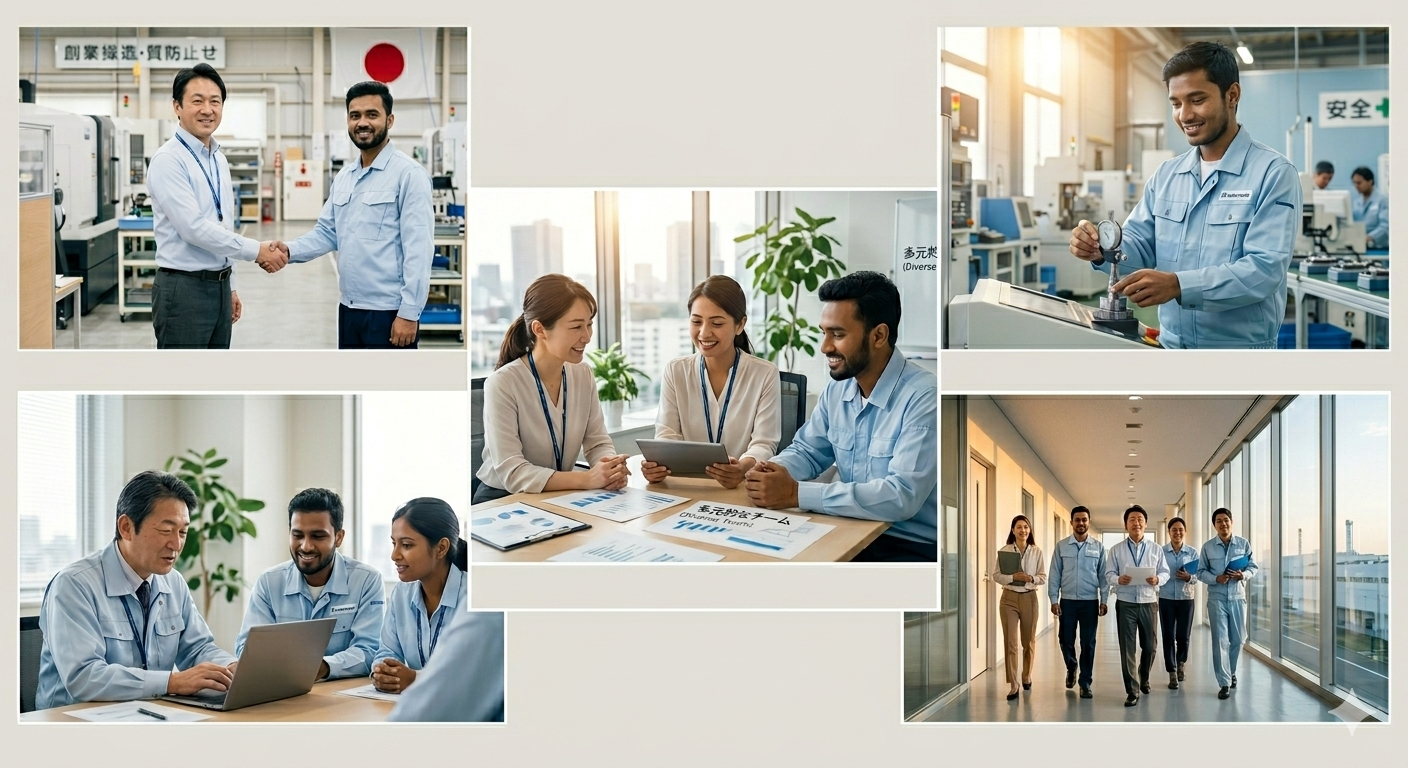
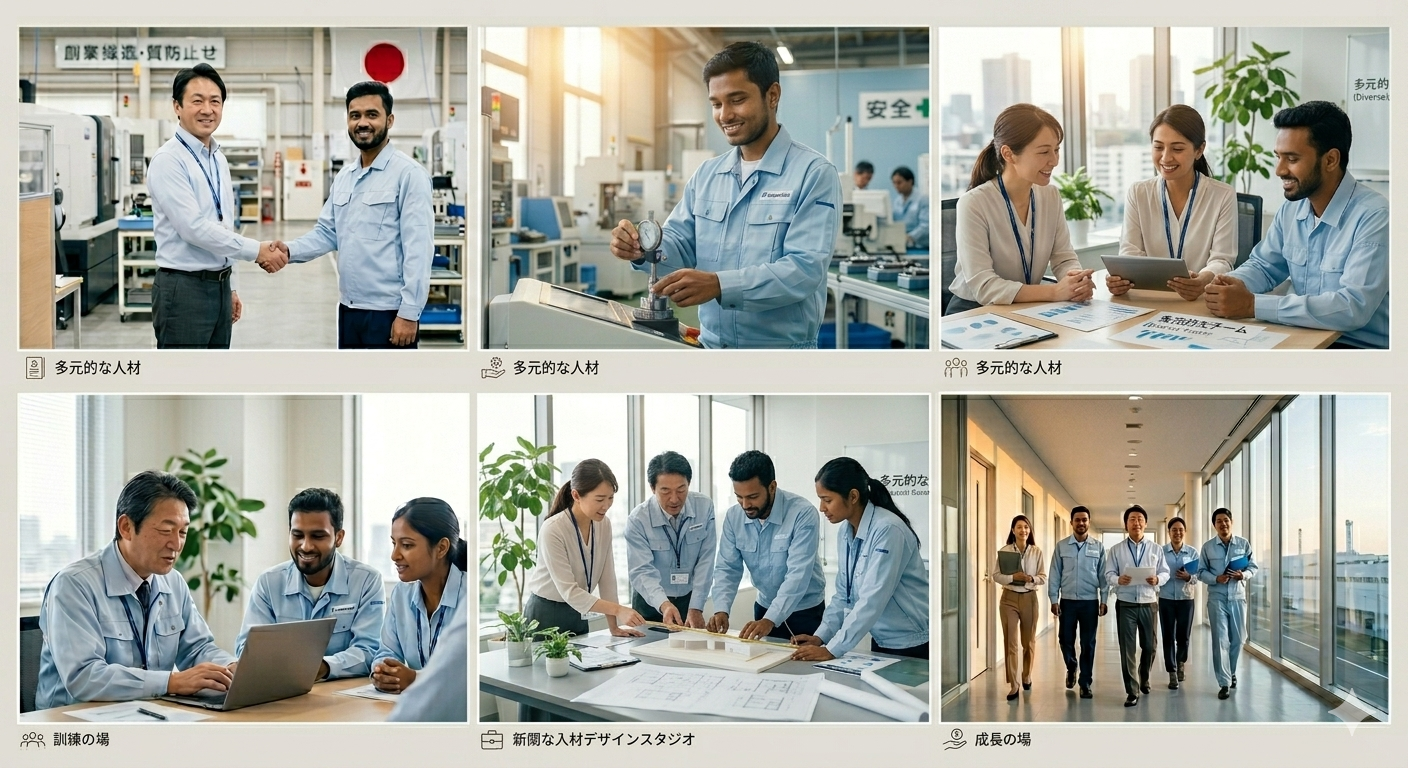
add image in case study

diff --git a/components/sections/case-studies-section.tsx b/components/sections/case-studies-section.tsx
@@ -1,6 +1,7 @@
 "use client";
 
 import type React from "react";
+import Image from "next/image";
 import Link from "next/link";
 import { motion } from "framer-motion";
 import { ArrowRight, TrendingUp } from "lucide-react";
@@ -65,9 +66,31 @@ export function CaseStudiesSection() {
     <section
       ref={ref as React.RefObject<HTMLElement>}
       aria-labelledby="cases-heading"
-      className="bg-navy-950 section-padding"
+      className="relative overflow-hidden section-padding"
     >
-      <div className="content-max px-4 sm:px-6 lg:px-8">
+      {/* ── Background image + layered overlays ── */}
+      <div className="absolute inset-0 z-0" aria-hidden="true">
+        <Image
+          src="/images/case-study.png"
+          alt=""
+          fill
+          className="object-cover object-center"
+          sizes="100vw"
+          quality={85}
+        />
+        {/* Base dark wash */}
+        <div className="absolute inset-0 bg-navy-950/50" />
+        {/* Cinematic gradient: dark top → clear mid → dark bottom */}
+        <div className="absolute inset-0 bg-linear-to-b from-navy-950/70 via-navy-950/20 to-navy-950/65" />
+        {/* Horizontal vignette for depth */}
+        <div className="absolute inset-0 bg-linear-to-r from-navy-950/40 via-transparent to-navy-950/40" />
+        {/* Subtle amber tint line near the top */}
+        <div className="absolute top-0 left-0 right-0 h-px bg-linear-to-r from-transparent via-amber-500/40 to-transparent" />
+      </div>
+
+      {/* ── Content ── */}
+      <div className="relative z-10 content-max px-4 sm:px-6 lg:px-8">
+        {/* Section header */}
         <motion.div
           variants={container}
           initial="hidden"
@@ -92,6 +115,7 @@ export function CaseStudiesSection() {
           </motion.p>
         </motion.div>
 
+        {/* Cards */}
         <motion.div
           variants={container}
           initial="hidden"
@@ -102,61 +126,67 @@ export function CaseStudiesSection() {
             <motion.div
               key={cs.slug}
               variants={item}
-              className={`group flex flex-col rounded-2xl border p-7 transition-all hover:-translate-y-1 ${
+              className={`group flex flex-col rounded-2xl border p-7 transition-all duration-300 hover:-translate-y-1.5 backdrop-blur-md ${
                 index === 0
-                  ? "border-amber-500/40 bg-amber-500/10"
-                  : "border-white/10 bg-white/5"
+                  ? "border-amber-500/35 bg-amber-500/[0.07] shadow-lg shadow-amber-500/10 hover:border-amber-400/50 hover:shadow-amber-500/20"
+                  : "border-white/10 bg-white/6 shadow-lg shadow-black/30 hover:border-white/20 hover:bg-white/9"
               }`}
             >
+              {/* Industry badge + company profile */}
               <div className="mb-5">
-                <span className="inline-block rounded-full bg-navy-700/60 px-3 py-1 text-[10px] font-semibold text-amber-300 mb-2">
+                <span className="inline-block rounded-full bg-navy-800/70 border border-white/10 px-3 py-1 text-[10px] font-semibold text-amber-300 mb-2 backdrop-blur-sm">
                   {cs.industry}
                 </span>
                 <p className="text-[11px] text-white/40">{cs.companyProfile}</p>
               </div>
 
-              <div className="flex items-center gap-2 mb-5">
+              {/* Stat */}
+              <div className="flex items-center gap-2 mb-5 p-3 rounded-xl bg-navy-950/40 border border-white/8 backdrop-blur-sm">
                 <TrendingUp size={16} className="text-amber-400 shrink-0" aria-hidden="true" />
                 <div>
-                  <span className="text-2xl font-extrabold text-amber-400">{cs.stat}</span>
+                  <span className="text-2xl font-extrabold text-amber-400 tabular-nums">{cs.stat}</span>
                   <span className="ml-1 text-xs font-medium text-white/60">{cs.statLabel}</span>
                 </div>
               </div>
 
+              {/* Challenge */}
               <div className="mb-4 flex-1">
-                <p className="text-[10px] font-semibold uppercase tracking-wider text-white/30 mb-1.5">
+                <p className="text-[10px] font-semibold uppercase tracking-wider text-white/40 mb-1.5">
                   課題
                 </p>
                 <p className="text-sm text-white/70 leading-relaxed">{cs.challenge}</p>
               </div>
 
+              {/* Solution */}
               <div className="mb-6">
-                <p className="text-[10px] font-semibold uppercase tracking-wider text-white/30 mb-1.5">
+                <p className="text-[10px] font-semibold uppercase tracking-wider text-white/40 mb-1.5">
                   解決策
                 </p>
                 <p className="text-sm text-white/70 leading-relaxed">{cs.solution}</p>
               </div>
 
+              {/* CTA link */}
               <Link
                 href={{ pathname: `/case-studies/${cs.slug}` }}
-                className="flex items-center gap-1.5 text-sm font-semibold text-amber-400 hover:text-amber-300 transition-colors"
+                className="flex items-center gap-1.5 text-sm font-semibold text-amber-400 hover:text-amber-300 transition-colors group-hover:gap-2.5"
               >
                 詳しく読む
-                <ArrowRight size={14} strokeWidth={2} aria-hidden="true" />
+                <ArrowRight size={14} strokeWidth={2} aria-hidden="true" className="transition-transform group-hover:translate-x-0.5" />
               </Link>
             </motion.div>
           ))}
         </motion.div>
 
+        {/* View all link */}
         <motion.div
           variants={item}
           initial="hidden"
           animate={inView ? "visible" : "hidden"}
-          className="mt-10 flex justify-center"
+          className="mt-12 flex justify-center"
         >
           <Link
             href={{ pathname: "/case-studies" }}
-            className="inline-flex items-center gap-2 rounded-lg border border-white/20 px-6 py-3 text-sm font-semibold text-white/80 hover:bg-white/5 hover:text-white transition-all"
+            className="inline-flex items-center gap-2 rounded-xl border border-white/15 bg-white/5 backdrop-blur-sm px-7 py-3.5 text-sm font-semibold text-white/80 hover:bg-white/10 hover:border-white/25 hover:text-white transition-all duration-200 shadow-lg shadow-black/20"
           >
             すべての導入事例を見る
             <ArrowRight size={14} strokeWidth={2} aria-hidden="true" />